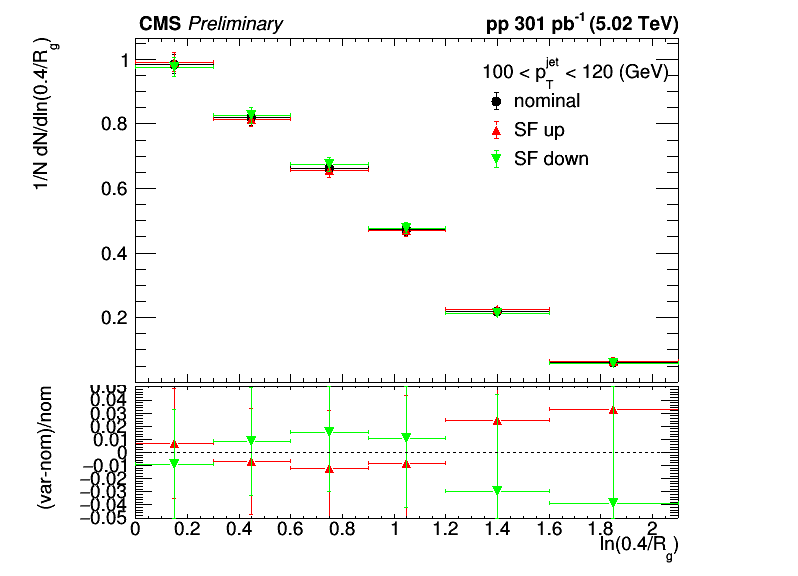
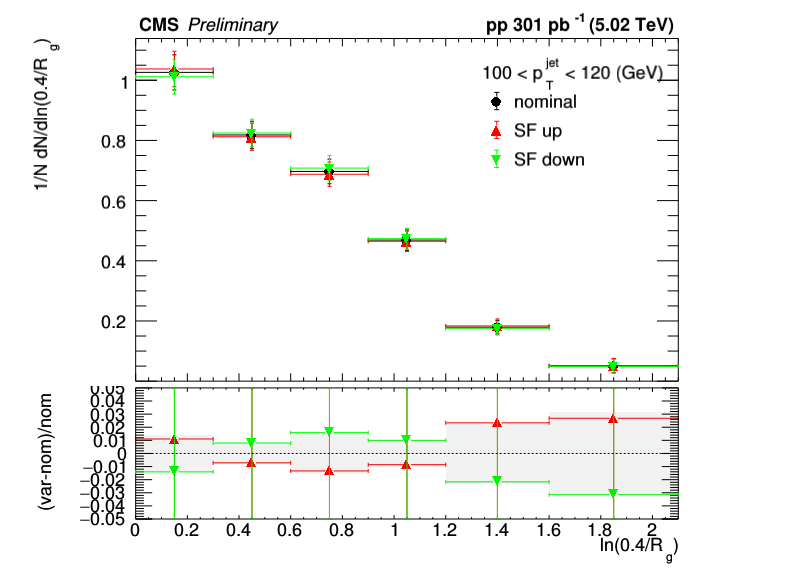
sf unc for bjet

diff --git a/myMacros/C106X/uncertanties/sf_unc.C b/myMacros/C106X/uncertanties/sf_unc.C
@@ -137,6 +137,22 @@ void sf_unc(TString observable="rg")
         h_unc_up_rel->Draw("pe1");
         h_unc_down_rel->Draw("pe1 same");
 
+        TH1D *h_unc_rel = (TH1D *) h_unc_up_rel->Clone(Form("h_unc_rel_%d",ibin_pt));
+        TH1D *h_band = (TH1D *) h_unc_rel->Clone("h_band");
+        h_band->Reset();
+        for (int ibin_x=1; ibin_x<=h_unc_rel->GetNbinsX(); ibin_x++) {
+            double maxUnc = std::max(std::abs(h_unc_up_rel->GetBinContent(ibin_x)), std::abs(h_unc_down_rel->GetBinContent(ibin_x)));
+            h_unc_rel->SetBinContent(ibin_x, maxUnc);
+            h_band->SetBinContent(ibin_x, 0.);
+            h_band->SetBinError(ibin_x, maxUnc);
+        }
+        h_unc_rel->Write();
+
+        h_band->SetMarkerSize(0);
+        h_band->SetFillStyle(1001);
+        h_band->SetFillColorAlpha(kBlack, 0.05);
+        h_band->Draw("e2 same");
+
         TLine *line = new TLine(h_unc_up->GetXaxis()->GetBinLowEdge(ibin_x_min), 0, h_unc_up->GetXaxis()->GetBinUpEdge(ibin_x_max), 0);
         line->SetLineStyle(kDashed);
         line->Draw();
